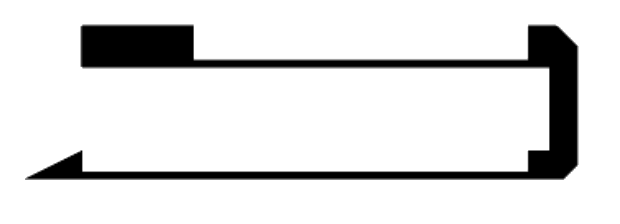
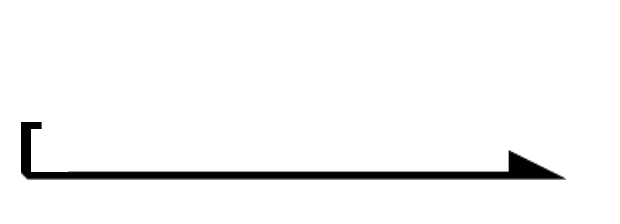
UI: Updated design.

Changed region(s): [[0.1226, 0.0938, 0.95, 0.8125], [0.0306, 0.5312, 0.1532, 0.8125]]

diff --git a/src/components/general/user-bar/health-bar.module.css b/src/components/general/user-bar/health-bar.module.css
@@ -1,20 +1,36 @@
 
 .heathBarWrapper {
     position: absolute;
-    top: 35px;
-    left: 75px;
-    width: 200px;
-    height: 60px;
+    top: 10px;
+    left: 40px;
+    width: 250px;
+    height: 80px;
     background-size: 100% 100%;
     background-image: url(./images/health-bar.png);
+    font-family: Verdana, Geneva, Tahoma, sans-serif;
+}
+
+/*  */
+
+.healthBarTitle {
+    position: absolute;
+    top: 20px;
+    left: 32px;
+    width: 25px;
+    padding: 3px 0px;
+    text-align: center;
+    color: rgb(214, 16, 16);
+    font-weight: bold;
+    font-size: 9px;
+    background-color: #000;
 }
 
 .healthProgressWrapper {
     position: absolute;
-    top: 8px;
-    left: 63px;
-    width: 107px;
-    height: 6px;
+    top: 28px;
+    left: 57px;
+    width: 145px;
+    height: 3px;
 }
 
 .healthProgressWrapper .progress {
@@ -23,23 +39,69 @@
     left: 0px;
     width: 0%;
     height: 100%;
-    background-color: rgb(19, 169, 31);
+    background-color: rgb(214, 16, 16);
 }
 
-.healthValueText {
-    position: absolute;
-    right: 30px;
-    bottom: 15px;
-    color: #000;
-    font-size: 20px;
-    letter-spacing: 1px;
-}
+/*  */
 
-.healthBarTitle {
+.manaBarTitle {
     position: absolute;
-    top: 5px;
-    left: 35px;
-    color: rgb(231, 253, 29);
+    top: 33px;
+    left: 32px;
+    width: 25px;
+    padding: 3px 0px;
+    text-align: center;
+    color: rgb(104, 93, 255);
     font-weight: bold;
-    font-weight: 25px;
+    font-size: 9px;
+    background-color: #000;
+}
+
+.manaProgressWrapper {
+    position: absolute;
+    top: 41px;
+    left: 57px;
+    width: 145px;
+    height: 3px;
+}
+
+.manaProgressWrapper .progress {
+    position: absolute;
+    top: 0px;
+    left: 0px;
+    width: 0%;
+    height: 100%;
+    background-color: rgb(104, 93, 255);
+}
+
+/*  */
+
+.xpBarTitle {
+    position: absolute;
+    top: 46px;
+    left: 32px;
+    width: 25px;
+    padding: 3px 0px;
+    text-align: center;
+    color: rgb(77 234 85);
+    font-weight: bold;
+    font-size: 9px;
+    background-color: #000;
+}
+
+.xpProgressWrapper {
+    position: absolute;
+    top: 54px;
+    left: 57px;
+    width: 145px;
+    height: 3px;
+}
+
+.xpProgressWrapper .progress {
+    position: absolute;
+    top: 0px;
+    left: 0px;
+    width: 0%;
+    height: 100%;
+    background-color: rgb(77 234 85);
 }

diff --git a/src/components/general/user-bar/HealthBar.tsx b/src/components/general/user-bar/HealthBar.tsx
@@ -7,16 +7,38 @@ import styles from './health-bar.module.css';
 
 export const HealthBar = () => {
 
-    const maxHealh = 100;
-    const currentHealth = 50;
+    const maxHealth = 100;
+    const currentHealth = 100;
+
+    const maxMana = 100;
+    const currentMana = 30;
+
+    const maxXP = 100;
+    const currentXP = 70;
+
+    //
 
     return (
         <div className={ styles.heathBarWrapper } >
+
             <div className={ styles.healthBarTitle } >HP</div>
+            {/* <div className={ styles.healthBarValue } >{ currentHealth } / { maxHealth }</div> */}
             <div className={ styles.healthProgressWrapper } >
-                <div className={ styles.progress } style={{ width: Math.floor( 100 * currentHealth / maxHealh ) + '%' }} />
+                <div className={ styles.progress } style={{ width: Math.floor( 100 * currentHealth / maxHealth ) + '%' }} />
             </div>
-            <div className={ styles.healthValueText } >{ currentHealth } / { maxHealh }</div>
+
+            <div className={ styles.manaBarTitle } >MN</div>
+            {/* <div className={ styles.manaBarValue } >{ currentMana } / { maxMana }</div> */}
+            <div className={ styles.manaProgressWrapper } >
+                <div className={ styles.progress } style={{ width: Math.floor( 100 * currentMana / maxMana ) + '%' }} />
+            </div>
+
+            <div className={ styles.xpBarTitle } >XP</div>
+            {/* <div className={ styles.xpBarValue } >{ currentXP } / { maxXP }</div> */}
+            <div className={ styles.xpProgressWrapper } >
+                <div className={ styles.progress } style={{ width: Math.floor( 100 * currentXP / maxXP ) + '%' }} />
+            </div>
+
         </div>
     );
 

diff --git a/src/components/general/user-bar/user-bar.module.css b/src/components/general/user-bar/user-bar.module.css
@@ -16,8 +16,8 @@
 .userBar .userAvatar {
     position: relative;
     float: left;
-    width: 84px;
-    height: 84px;
+    width: 75px;
+    height: 75px;
     border: 1px solid #000;
     z-index: 2;
     cursor: pointer;
